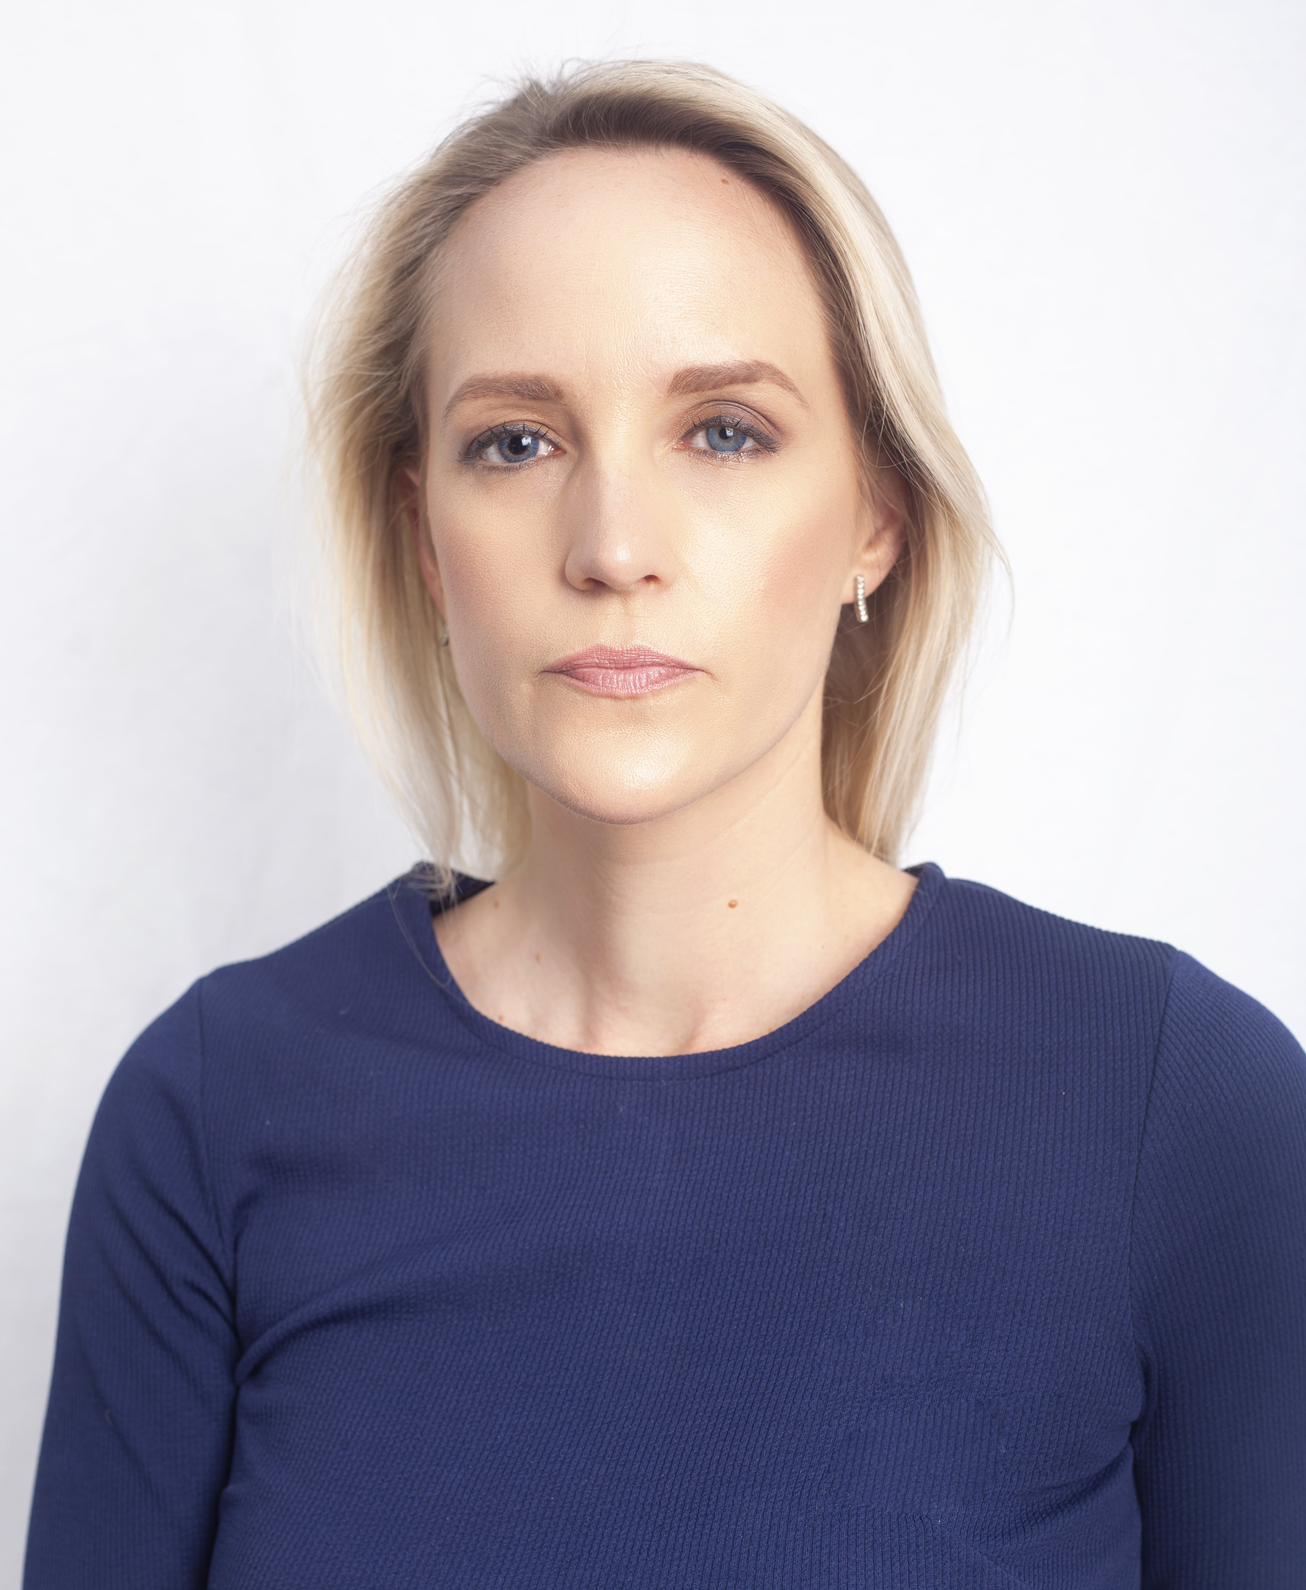
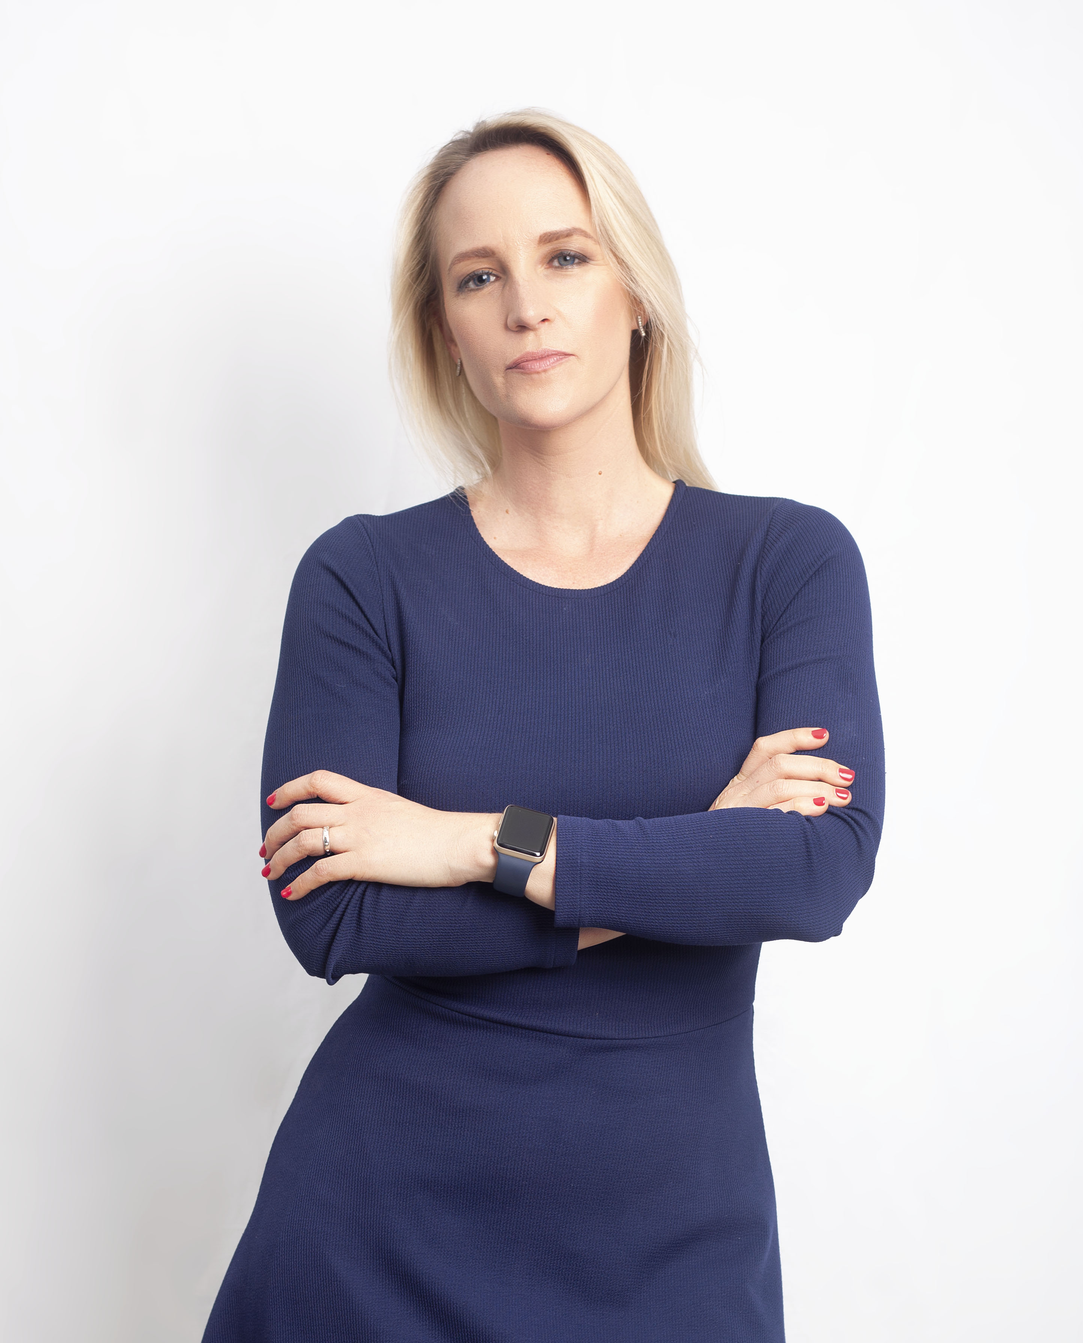
Changed johanna's pic to a more suitable one

diff --git a/_site/success-stories/cpc.html b/_site/success-stories/cpc.html
@@ -37,9 +37,9 @@
 <meta property="og:url" content="https://softcom.ng/success-stories/cpc" />
 <meta property="og:site_name" content="Softcom Ltd" />
 <meta property="og:type" content="article" />
-<meta property="article:published_time" content="2018-09-27T16:22:45+01:00" />
+<meta property="article:published_time" content="2018-09-28T13:01:55+01:00" />
 <script type="application/ld+json">
-{"url":"https://softcom.ng/success-stories/cpc","headline":"Redefining Complaints Management","dateModified":"2018-09-27T16:22:45+01:00","datePublished":"2018-09-27T16:22:45+01:00","mainEntityOfPage":{"@type":"WebPage","@id":"https://softcom.ng/success-stories/cpc"},"description":"INTRODUCTION The Consumer Protection Council is an MDA under the Federal Ministry of Trade and Investment in Nigeria. CPC runs with an aim to eliminate hazardous products from the market, provide speedy redress to consumers complaints, undertake campaigns as will lead to increased consumer awareness, ensure that consumers interest receive due consideration at the appropriate forum, and encourage trade, industry and professional associations to develop and enforce in their various fields quality standards designed to safeguard the interest of consumers via legitimate methods. Consumer satisfaction has become highly flawed and unreliable and 90% of Nigerian’s have had to deal with bad products or services at one point or the other while the remaining 10% are at risk.  CPC, considering the fact that only a handful of Nigerians are aware of the services they render, approached Softcom to develop a means though which they could effectively manage and track customer complaints from the moment a complaint is tendered to the point of resolve via technology.","@type":"BlogPosting","@context":"http://schema.org"}</script>
+{"url":"https://softcom.ng/success-stories/cpc","headline":"Redefining Complaints Management","dateModified":"2018-09-28T13:01:55+01:00","datePublished":"2018-09-28T13:01:55+01:00","mainEntityOfPage":{"@type":"WebPage","@id":"https://softcom.ng/success-stories/cpc"},"description":"INTRODUCTION The Consumer Protection Council is an MDA under the Federal Ministry of Trade and Investment in Nigeria. CPC runs with an aim to eliminate hazardous products from the market, provide speedy redress to consumers complaints, undertake campaigns as will lead to increased consumer awareness, ensure that consumers interest receive due consideration at the appropriate forum, and encourage trade, industry and professional associations to develop and enforce in their various fields quality standards designed to safeguard the interest of consumers via legitimate methods. Consumer satisfaction has become highly flawed and unreliable and 90% of Nigerian’s have had to deal with bad products or services at one point or the other while the remaining 10% are at risk.  CPC, considering the fact that only a handful of Nigerians are aware of the services they render, approached Softcom to develop a means though which they could effectively manage and track customer complaints from the moment a complaint is tendered to the point of resolve via technology.","@type":"BlogPosting","@context":"http://schema.org"}</script>
 <!-- End Jekyll SEO tag -->
 
 </head>

diff --git a/_site/success-stories/cu.html b/_site/success-stories/cu.html
@@ -37,9 +37,9 @@
 <meta property="og:url" content="https://softcom.ng/success-stories/cu" />
 <meta property="og:site_name" content="Softcom Ltd" />
 <meta property="og:type" content="article" />
-<meta property="article:published_time" content="2018-09-27T16:22:45+01:00" />
+<meta property="article:published_time" content="2018-09-28T13:01:55+01:00" />
 <script type="application/ld+json">
-{"url":"https://softcom.ng/success-stories/cu","headline":"Beyond the classroom","dateModified":"2018-09-27T16:22:45+01:00","datePublished":"2018-09-27T16:22:45+01:00","mainEntityOfPage":{"@type":"WebPage","@id":"https://softcom.ng/success-stories/cu"},"description":"INTRODUCTION Covenant university is ranked the number one private university in Nigeria and is located in the western part of Nigeria, Ota Ogun state. The school runs with a mission to To create knowledge and restore the dignity of the black man via a Human Development and Total Man Concept driven curriculum employing innovative, leading edge, teaching and learning methods, research and professional services that promote integrated, life-applicable, life-transforming education relevant to the context of Science, Technology and Human Capacity Building and with over 7000 students and counting they decided to approach Softcom to help develop a strategy that will improve the overall learning experience in the school.","@type":"BlogPosting","@context":"http://schema.org"}</script>
+{"url":"https://softcom.ng/success-stories/cu","headline":"Beyond the classroom","dateModified":"2018-09-28T13:01:55+01:00","datePublished":"2018-09-28T13:01:55+01:00","mainEntityOfPage":{"@type":"WebPage","@id":"https://softcom.ng/success-stories/cu"},"description":"INTRODUCTION Covenant university is ranked the number one private university in Nigeria and is located in the western part of Nigeria, Ota Ogun state. The school runs with a mission to To create knowledge and restore the dignity of the black man via a Human Development and Total Man Concept driven curriculum employing innovative, leading edge, teaching and learning methods, research and professional services that promote integrated, life-applicable, life-transforming education relevant to the context of Science, Technology and Human Capacity Building and with over 7000 students and counting they decided to approach Softcom to help develop a strategy that will improve the overall learning experience in the school.","@type":"BlogPosting","@context":"http://schema.org"}</script>
 <!-- End Jekyll SEO tag -->
 
 </head>

diff --git a/_site/careers/openings/junior-frontend-developer.html b/_site/careers/openings/junior-frontend-developer.html
@@ -37,9 +37,9 @@
 <meta property="og:url" content="https://softcom.ng/careers/openings/junior-frontend-developer" />
 <meta property="og:site_name" content="Softcom Ltd" />
 <meta property="og:type" content="article" />
-<meta property="article:published_time" content="2018-09-27T16:22:45+01:00" />
+<meta property="article:published_time" content="2018-09-28T13:01:55+01:00" />
 <script type="application/ld+json">
-{"url":"https://softcom.ng/careers/openings/junior-frontend-developer","headline":"Junior Frontend Developer","dateModified":"2018-09-27T16:22:45+01:00","datePublished":"2018-09-27T16:22:45+01:00","mainEntityOfPage":{"@type":"WebPage","@id":"https://softcom.ng/careers/openings/junior-frontend-developer"},"description":"title: Junior Frontend Developer location: Lagos department: Engineering subunit: Frontend featured_image: /uploads/headers/openings-header.jpg image_description: body: |- ### Role Function Brief As a Junior Frontend Developer with Softcom, you’ll be responsible for researching client behaviour, crafting product positioning, and effectively articulating the value of Softcom’s products to new and existing customers. In doing so, you’ll be working within a growing team of product managers, while collaborating with our engineering team, helping steer Softcom’s product roadmap and improving the client to customer journey.","@type":"BlogPosting","@context":"http://schema.org"}</script>
+{"url":"https://softcom.ng/careers/openings/junior-frontend-developer","headline":"Junior Frontend Developer","dateModified":"2018-09-28T13:01:55+01:00","datePublished":"2018-09-28T13:01:55+01:00","mainEntityOfPage":{"@type":"WebPage","@id":"https://softcom.ng/careers/openings/junior-frontend-developer"},"description":"title: Junior Frontend Developer location: Lagos department: Engineering subunit: Frontend featured_image: /uploads/headers/openings-header.jpg image_description: body: |- ### Role Function Brief As a Junior Frontend Developer with Softcom, you’ll be responsible for researching client behaviour, crafting product positioning, and effectively articulating the value of Softcom’s products to new and existing customers. In doing so, you’ll be working within a growing team of product managers, while collaborating with our engineering team, helping steer Softcom’s product roadmap and improving the client to customer journey.","@type":"BlogPosting","@context":"http://schema.org"}</script>
 <!-- End Jekyll SEO tag -->
 
 </head>

diff --git a/_site/success-stories/mtn-trade-visibility.html b/_site/success-stories/mtn-trade-visibility.html
@@ -37,9 +37,9 @@
 <meta property="og:url" content="https://softcom.ng/success-stories/mtn-trade-visibility" />
 <meta property="og:site_name" content="Softcom Ltd" />
 <meta property="og:type" content="article" />
-<meta property="article:published_time" content="2018-09-27T16:22:45+01:00" />
+<meta property="article:published_time" content="2018-09-28T13:01:55+01:00" />
 <script type="application/ld+json">
-{"url":"https://softcom.ng/success-stories/mtn-trade-visibility","headline":"Knowing your place in the market","dateModified":"2018-09-27T16:22:45+01:00","datePublished":"2018-09-27T16:22:45+01:00","mainEntityOfPage":{"@type":"WebPage","@id":"https://softcom.ng/success-stories/mtn-trade-visibility"},"description":"INTRODUCTION MTN is the largest telecommunication company in Nigeria with over 57 million subscribers. Established in 1994, MTN operates in over 22 countries across the Middle East and Africa. MTN Nigeria’s growth rate was on the rise and they needed to measure the reach of its branded merchandise against its competitors’ across the Federation. The telecommunications giants also wanted to efficiently determine the extent of subsequent visibility investments.","@type":"BlogPosting","@context":"http://schema.org"}</script>
+{"url":"https://softcom.ng/success-stories/mtn-trade-visibility","headline":"Knowing your place in the market","dateModified":"2018-09-28T13:01:55+01:00","datePublished":"2018-09-28T13:01:55+01:00","mainEntityOfPage":{"@type":"WebPage","@id":"https://softcom.ng/success-stories/mtn-trade-visibility"},"description":"INTRODUCTION MTN is the largest telecommunication company in Nigeria with over 57 million subscribers. Established in 1994, MTN operates in over 22 countries across the Middle East and Africa. MTN Nigeria’s growth rate was on the rise and they needed to measure the reach of its branded merchandise against its competitors’ across the Federation. The telecommunications giants also wanted to efficiently determine the extent of subsequent visibility investments.","@type":"BlogPosting","@context":"http://schema.org"}</script>
 <!-- End Jekyll SEO tag -->
 
 </head>

diff --git a/_site/success-stories/gsk.html b/_site/success-stories/gsk.html
@@ -37,9 +37,9 @@
 <meta property="og:url" content="https://softcom.ng/success-stories/gsk" />
 <meta property="og:site_name" content="Softcom Ltd" />
 <meta property="og:type" content="article" />
-<meta property="article:published_time" content="2018-09-27T16:22:45+01:00" />
+<meta property="article:published_time" content="2018-09-28T13:01:55+01:00" />
 <script type="application/ld+json">
-{"url":"https://softcom.ng/success-stories/gsk","headline":"Improving patient adherence using technology","dateModified":"2018-09-27T16:22:45+01:00","datePublished":"2018-09-27T16:22:45+01:00","mainEntityOfPage":{"@type":"WebPage","@id":"https://softcom.ng/success-stories/gsk"},"description":"INTRODUCTION Glaxosmithkline is a leading global healthcare organization championing innovation in three primary areas of pharmaceuticals, vaccines and consumer healthcare. They have presence in 150 countries; a network of 89 manufacturing sites and large R&amp;D centres in the UK, USA, Belgium and China. GSK is committed to helping people “do more, feel better and live longer”.","@type":"BlogPosting","@context":"http://schema.org"}</script>
+{"url":"https://softcom.ng/success-stories/gsk","headline":"Improving patient adherence using technology","dateModified":"2018-09-28T13:01:55+01:00","datePublished":"2018-09-28T13:01:55+01:00","mainEntityOfPage":{"@type":"WebPage","@id":"https://softcom.ng/success-stories/gsk"},"description":"INTRODUCTION Glaxosmithkline is a leading global healthcare organization championing innovation in three primary areas of pharmaceuticals, vaccines and consumer healthcare. They have presence in 150 countries; a network of 89 manufacturing sites and large R&amp;D centres in the UK, USA, Belgium and China. GSK is committed to helping people “do more, feel better and live longer”.","@type":"BlogPosting","@context":"http://schema.org"}</script>
 <!-- End Jekyll SEO tag -->
 
 </head>

diff --git a/_site/success-stories/mtn-retco.html b/_site/success-stories/mtn-retco.html
@@ -37,9 +37,9 @@
 <meta property="og:url" content="https://softcom.ng/success-stories/mtn-retco" />
 <meta property="og:site_name" content="Softcom Ltd" />
 <meta property="og:type" content="article" />
-<meta property="article:published_time" content="2018-09-27T16:22:45+01:00" />
+<meta property="article:published_time" content="2018-09-28T13:01:55+01:00" />
 <script type="application/ld+json">
-{"url":"https://softcom.ng/success-stories/mtn-retco","headline":"Enhancing Retail","dateModified":"2018-09-27T16:22:45+01:00","datePublished":"2018-09-27T16:22:45+01:00","mainEntityOfPage":{"@type":"WebPage","@id":"https://softcom.ng/success-stories/mtn-retco"},"description":"INTRODUCTION MTN is the largest telecommunication company in Nigeria with over 57 million subscribers. Established in 1994, MTN operates in over 22 countries across the Middle East and Africa. MTN Nigeria sought to establish focal engagement with its retailers and also  provide access to a myriad of products. This was all in a bid to increase revenue and improve customer satisfaction.","@type":"BlogPosting","@context":"http://schema.org"}</script>
+{"url":"https://softcom.ng/success-stories/mtn-retco","headline":"Enhancing Retail","dateModified":"2018-09-28T13:01:55+01:00","datePublished":"2018-09-28T13:01:55+01:00","mainEntityOfPage":{"@type":"WebPage","@id":"https://softcom.ng/success-stories/mtn-retco"},"description":"INTRODUCTION MTN is the largest telecommunication company in Nigeria with over 57 million subscribers. Established in 1994, MTN operates in over 22 countries across the Middle East and Africa. MTN Nigeria sought to establish focal engagement with its retailers and also  provide access to a myriad of products. This was all in a bid to increase revenue and improve customer satisfaction.","@type":"BlogPosting","@context":"http://schema.org"}</script>
 <!-- End Jekyll SEO tag -->
 
 </head>

diff --git a/_site/about/leadership/johanna.html b/_site/about/leadership/johanna.html
@@ -38,9 +38,9 @@
 <meta property="og:site_name" content="Softcom Ltd" />
 <meta property="og:image" content="https://softcom.ng/uploads/leadership/johanna.jpg" />
 <meta property="og:type" content="article" />
-<meta property="article:published_time" content="2018-09-27T16:22:45+01:00" />
+<meta property="article:published_time" content="2018-09-28T13:01:55+01:00" />
 <script type="application/ld+json">
-{"url":"https://softcom.ng/about/leadership/johanna","headline":"Johanna Stamps Egbe","dateModified":"2018-09-27T16:22:45+01:00","datePublished":"2018-09-27T16:22:45+01:00","image":"https://softcom.ng/uploads/leadership/johanna.jpg","mainEntityOfPage":{"@type":"WebPage","@id":"https://softcom.ng/about/leadership/johanna"},"description":"Softcom builds software, products, and programs that connect people and businesses.","@type":"BlogPosting","@context":"http://schema.org"}</script>
+{"url":"https://softcom.ng/about/leadership/johanna","headline":"Johanna Stamps Egbe","dateModified":"2018-09-28T13:01:55+01:00","datePublished":"2018-09-28T13:01:55+01:00","image":"https://softcom.ng/uploads/leadership/johanna.jpg","mainEntityOfPage":{"@type":"WebPage","@id":"https://softcom.ng/about/leadership/johanna"},"description":"Softcom builds software, products, and programs that connect people and businesses.","@type":"BlogPosting","@context":"http://schema.org"}</script>
 <!-- End Jekyll SEO tag -->
 
 </head>

diff --git a/_site/about/leadership/seinde.html b/_site/about/leadership/seinde.html
@@ -38,9 +38,9 @@
 <meta property="og:site_name" content="Softcom Ltd" />
 <meta property="og:image" content="https://softcom.ng/uploads/leadership/seinde.png" />
 <meta property="og:type" content="article" />
-<meta property="article:published_time" content="2018-09-27T16:22:45+01:00" />
+<meta property="article:published_time" content="2018-09-28T13:01:55+01:00" />
 <script type="application/ld+json">
-{"url":"https://softcom.ng/about/leadership/seinde","headline":"Omoseindemi Olobayo","dateModified":"2018-09-27T16:22:45+01:00","datePublished":"2018-09-27T16:22:45+01:00","image":"https://softcom.ng/uploads/leadership/seinde.png","mainEntityOfPage":{"@type":"WebPage","@id":"https://softcom.ng/about/leadership/seinde"},"description":"Softcom builds software, products, and programs that connect people and businesses.","@type":"BlogPosting","@context":"http://schema.org"}</script>
+{"url":"https://softcom.ng/about/leadership/seinde","headline":"Omoseindemi Olobayo","dateModified":"2018-09-28T13:01:55+01:00","datePublished":"2018-09-28T13:01:55+01:00","image":"https://softcom.ng/uploads/leadership/seinde.png","mainEntityOfPage":{"@type":"WebPage","@id":"https://softcom.ng/about/leadership/seinde"},"description":"Softcom builds software, products, and programs that connect people and businesses.","@type":"BlogPosting","@context":"http://schema.org"}</script>
 <!-- End Jekyll SEO tag -->
 
 </head>

diff --git a/_site/careers/openings/senior-frontend-developer.html b/_site/careers/openings/senior-frontend-developer.html
@@ -37,9 +37,9 @@
 <meta property="og:url" content="https://softcom.ng/careers/openings/senior-frontend-developer" />
 <meta property="og:site_name" content="Softcom Ltd" />
 <meta property="og:type" content="article" />
-<meta property="article:published_time" content="2018-09-27T16:22:45+01:00" />
+<meta property="article:published_time" content="2018-09-28T13:01:55+01:00" />
 <script type="application/ld+json">
-{"url":"https://softcom.ng/careers/openings/senior-frontend-developer","headline":"Senior Frontend Developer","dateModified":"2018-09-27T16:22:45+01:00","datePublished":"2018-09-27T16:22:45+01:00","mainEntityOfPage":{"@type":"WebPage","@id":"https://softcom.ng/careers/openings/senior-frontend-developer"},"description":"Softcom builds software, products, and programs that connect people and businesses.","@type":"BlogPosting","@context":"http://schema.org"}</script>
+{"url":"https://softcom.ng/careers/openings/senior-frontend-developer","headline":"Senior Frontend Developer","dateModified":"2018-09-28T13:01:55+01:00","datePublished":"2018-09-28T13:01:55+01:00","mainEntityOfPage":{"@type":"WebPage","@id":"https://softcom.ng/careers/openings/senior-frontend-developer"},"description":"Softcom builds software, products, and programs that connect people and businesses.","@type":"BlogPosting","@context":"http://schema.org"}</script>
 <!-- End Jekyll SEO tag -->
 
 </head>

diff --git a/_site/about/leadership/seun.html b/_site/about/leadership/seun.html
@@ -38,9 +38,9 @@
 <meta property="og:site_name" content="Softcom Ltd" />
 <meta property="og:image" content="https://softcom.ng/uploads/leadership/seun.png" />
 <meta property="og:type" content="article" />
-<meta property="article:published_time" content="2018-09-27T16:22:45+01:00" />
+<meta property="article:published_time" content="2018-09-28T13:01:55+01:00" />
 <script type="application/ld+json">
-{"url":"https://softcom.ng/about/leadership/seun","headline":"Seun Williams","dateModified":"2018-09-27T16:22:45+01:00","datePublished":"2018-09-27T16:22:45+01:00","image":"https://softcom.ng/uploads/leadership/seun.png","mainEntityOfPage":{"@type":"WebPage","@id":"https://softcom.ng/about/leadership/seun"},"description":"Softcom builds software, products, and programs that connect people and businesses.","@type":"BlogPosting","@context":"http://schema.org"}</script>
+{"url":"https://softcom.ng/about/leadership/seun","headline":"Seun Williams","dateModified":"2018-09-28T13:01:55+01:00","datePublished":"2018-09-28T13:01:55+01:00","image":"https://softcom.ng/uploads/leadership/seun.png","mainEntityOfPage":{"@type":"WebPage","@id":"https://softcom.ng/about/leadership/seun"},"description":"Softcom builds software, products, and programs that connect people and businesses.","@type":"BlogPosting","@context":"http://schema.org"}</script>
 <!-- End Jekyll SEO tag -->
 
 </head>

diff --git a/_site/about/leadership/yomi.html b/_site/about/leadership/yomi.html
@@ -38,9 +38,9 @@
 <meta property="og:site_name" content="Softcom Ltd" />
 <meta property="og:image" content="https://softcom.ng/uploads/leadership/yomi.png" />
 <meta property="og:type" content="article" />
-<meta property="article:published_time" content="2018-09-27T16:22:45+01:00" />
+<meta property="article:published_time" content="2018-09-28T13:01:55+01:00" />
 <script type="application/ld+json">
-{"url":"https://softcom.ng/about/leadership/yomi","headline":"Yomi Adedeji","dateModified":"2018-09-27T16:22:45+01:00","datePublished":"2018-09-27T16:22:45+01:00","image":"https://softcom.ng/uploads/leadership/yomi.png","mainEntityOfPage":{"@type":"WebPage","@id":"https://softcom.ng/about/leadership/yomi"},"description":"Softcom builds software, products, and programs that connect people and businesses.","@type":"BlogPosting","@context":"http://schema.org"}</script>
+{"url":"https://softcom.ng/about/leadership/yomi","headline":"Yomi Adedeji","dateModified":"2018-09-28T13:01:55+01:00","datePublished":"2018-09-28T13:01:55+01:00","image":"https://softcom.ng/uploads/leadership/yomi.png","mainEntityOfPage":{"@type":"WebPage","@id":"https://softcom.ng/about/leadership/yomi"},"description":"Softcom builds software, products, and programs that connect people and businesses.","@type":"BlogPosting","@context":"http://schema.org"}</script>
 <!-- End Jekyll SEO tag -->
 
 </head>

diff --git a/_site/about/leadership/tomi.html b/_site/about/leadership/tomi.html
@@ -38,9 +38,9 @@
 <meta property="og:site_name" content="Softcom Ltd" />
 <meta property="og:image" content="https://softcom.ng/uploads/leadership/tomi.png" />
 <meta property="og:type" content="article" />
-<meta property="article:published_time" content="2018-09-27T16:22:45+01:00" />
+<meta property="article:published_time" content="2018-09-28T13:01:55+01:00" />
 <script type="application/ld+json">
-{"url":"https://softcom.ng/about/leadership/tomi","headline":"Tomi Amao","dateModified":"2018-09-27T16:22:45+01:00","datePublished":"2018-09-27T16:22:45+01:00","image":"https://softcom.ng/uploads/leadership/tomi.png","mainEntityOfPage":{"@type":"WebPage","@id":"https://softcom.ng/about/leadership/tomi"},"description":"Softcom builds software, products, and programs that connect people and businesses.","@type":"BlogPosting","@context":"http://schema.org"}</script>
+{"url":"https://softcom.ng/about/leadership/tomi","headline":"Tomi Amao","dateModified":"2018-09-28T13:01:55+01:00","datePublished":"2018-09-28T13:01:55+01:00","image":"https://softcom.ng/uploads/leadership/tomi.png","mainEntityOfPage":{"@type":"WebPage","@id":"https://softcom.ng/about/leadership/tomi"},"description":"Softcom builds software, products, and programs that connect people and businesses.","@type":"BlogPosting","@context":"http://schema.org"}</script>
 <!-- End Jekyll SEO tag -->
 
 </head>
